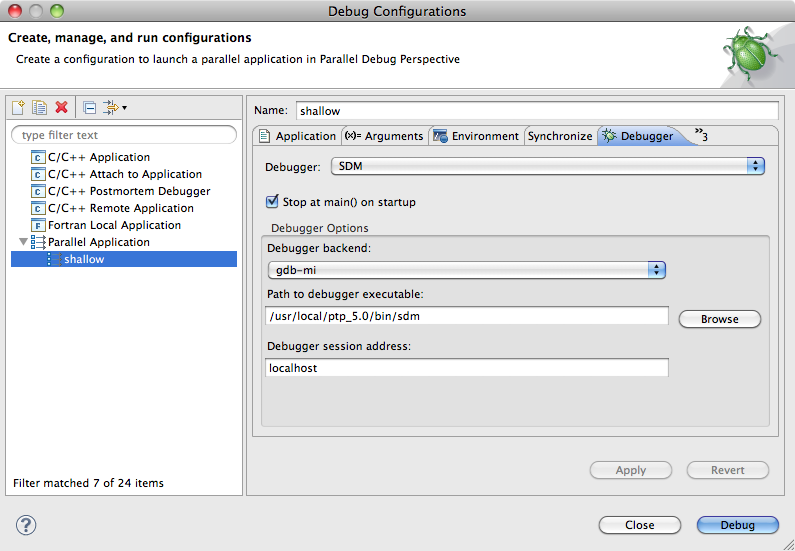
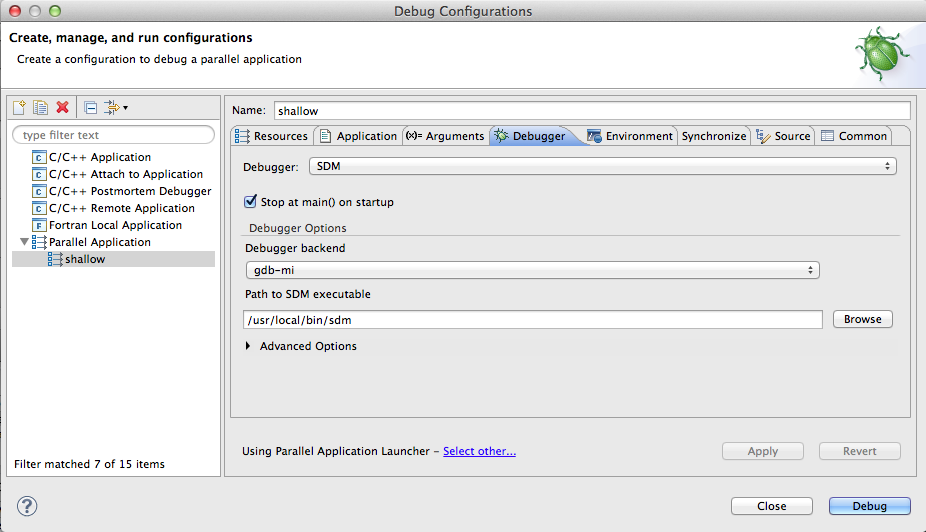
Update debugger docs for 6.0

Changed region(s): [[0.0, 0.0, 1.0, 0.9023], [0.7547, 0.9323, 1.0, 1.0], [0.0, 0.9323, 0.0604, 0.9624]]

diff --git a/core/org.eclipse.ptp.doc.user/html/06parDebugging.html b/core/org.eclipse.ptp.doc.user/html/06parDebugging.html
@@ -52,11 +52,11 @@ Resources, Application, Arguments, Environment, Synchronize.
 	<p><br></p>
 	</li>
 	<li>
-	Under <b>Debugger Options</b>, leave the <b>Debugger backend</b> set to <code>gdb-mi</code>.
+	Under <b>Debugger Options</b>, make sure the <b>Debugger backend</b> is set to <code>gdb-mi</code>.
 	<p><br></p>
 	</li>
-	<li>Make sure that the <b>Path to debugger
-	executable</b> is correct.
+	<li>Make sure that the <b>Path to SDM
+	executable</b> is correct for your target system.
 	<p><br></p>
 	<p>If you are debugging on the local machine, this path should
 	point to the <code>sdm</code> executable in your Ecilpse installation's
@@ -74,7 +74,12 @@ Resources, Application, Arguments, Environment, Synchronize.
 	<p><br></p>
 	</li>
 	<li>
-	<p>Set the <b>Debugger session address</b>. This is the address
+	<p><b>(Optional) Advanced Options</b> are accessed by clicking on the twistie. The advanced options allow you to set the <b>Session address</b>
+	and the <b>Path to gdb executable</b>.</p>
+	<p><br></p>
+	<p><img src="images/06debugAdvanced.png"></p>
+	<p><br></p>
+	<p>The session address is the address
 	that the debugger will connect to when it starts, and will depend on
 	where you are launching the application:</p>
 	<p><br></p>
@@ -89,7 +94,10 @@ Resources, Application, Arguments, Environment, Synchronize.
 	one running Eclipse). <i>This address must be accessible from the
 	remote machine.</i>. If your local network configuration precludes the
 	remote machine accessing your local machine, you will need to
-	reconfigure the resource manager to use port forwarding.</p>
+	reconfigure the connection to use port forwarding.</p>
+	<p><br></p>
+	<p>The path of gdb executable can be overridden if it is located in
+	a non-standard directory, or you wish to use an alternative to gdb.</p>
 	</li>
 	</ol>
 
